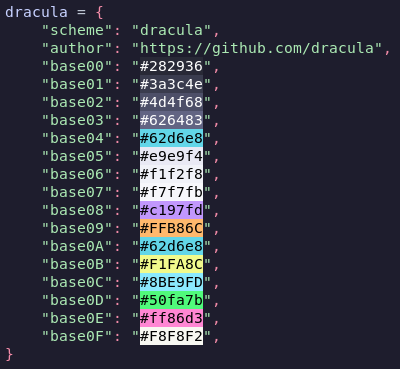
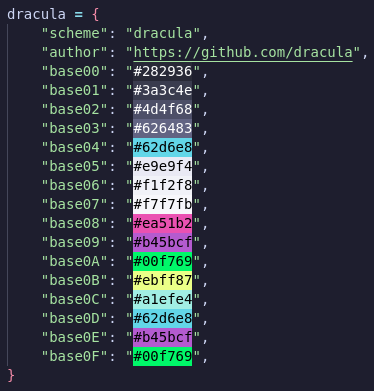
Update dracula color scheme (like official)

Changed region(s): [[0.0, 0.0, 0.9706, 0.9539], [0.0, 0.9241, 0.0588, 0.9837]]

diff --git a/base16_colorlib/color_scheme.py b/base16_colorlib/color_scheme.py
@@ -334,14 +334,14 @@ dracula = {
     "base05": "#e9e9f4",
     "base06": "#f1f2f8",
     "base07": "#f7f7fb",
-    "base08": "#c197fd",
-    "base09": "#ffb86c",
-    "base0A": "#62d6e8",
-    "base0B": "#f1fa8c",
-    "base0C": "#8be9fd",
-    "base0D": "#50fa7b",
-    "base0E": "#ff86d3",
-    "base0F": "#f8f8f2",
+    "base08": "#ea51b2",
+    "base09": "#b45bcf",
+    "base0A": "#00f769",
+    "base0B": "#ebff87",
+    "base0C": "#a1efe4",
+    "base0D": "#62d6e8",
+    "base0E": "#b45bcf",
+    "base0F": "#00f769",
 }
 
 decay = {

diff --git a/README.md b/README.md
@@ -368,15 +368,15 @@
     "base05": "#e9e9f4",
     "base06": "#f1f2f8",
     "base07": "#f7f7fb",
-    "base08": "#c197fd",
-    "base09": "#FFB86C",
-    "base0A": "#62d6e8",
-    "base0B": "#F1FA8C",
-    "base0C": "#8BE9FD",
-    "base0D": "#50fa7b",
-    "base0E": "#ff86d3",
-    "base0F": "#F8F8F2",
-  }
+    "base08": "#ea51b2",
+    "base09": "#b45bcf",
+    "base0A": "#00f769",
+    "base0B": "#ebff87",
+    "base0C": "#a1efe4",
+    "base0D": "#62d6e8",
+    "base0E": "#b45bcf",
+    "base0F": "#00f769",
+}
   ```
   </details>
   <br/>
